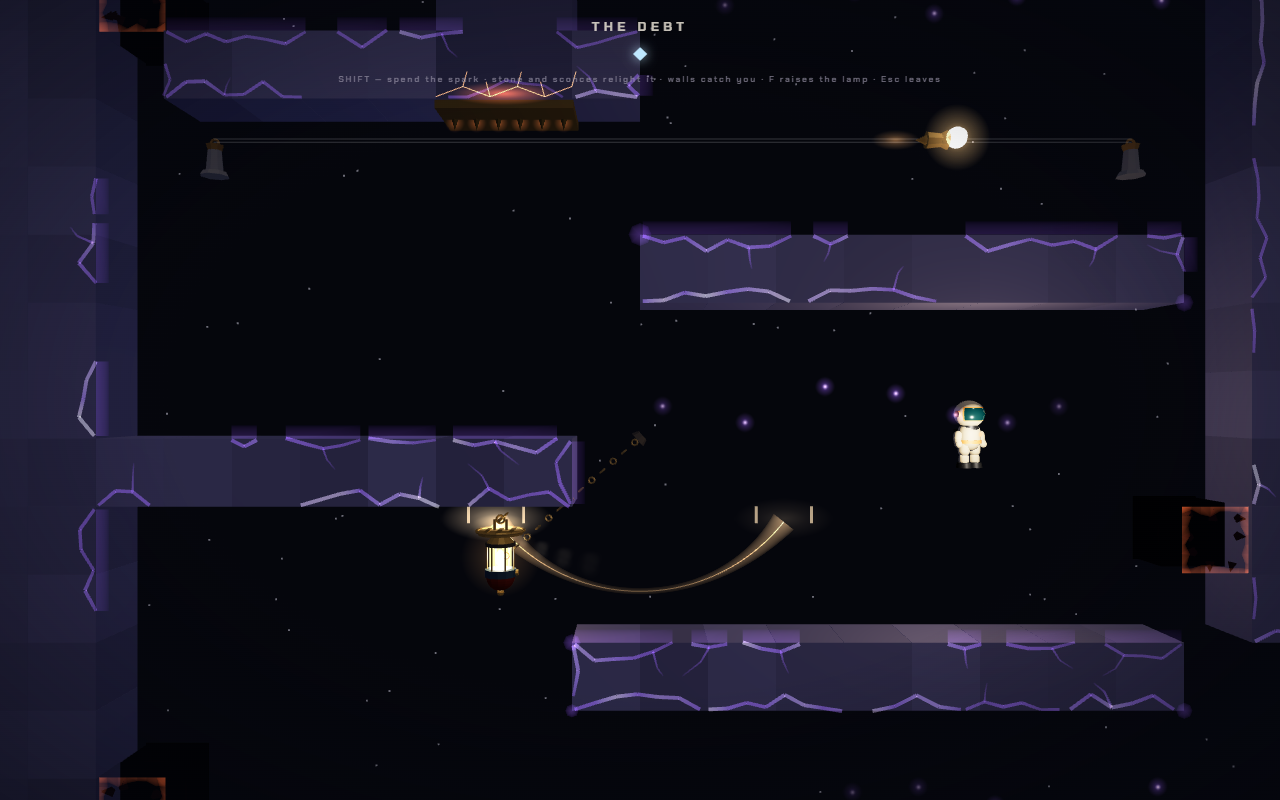
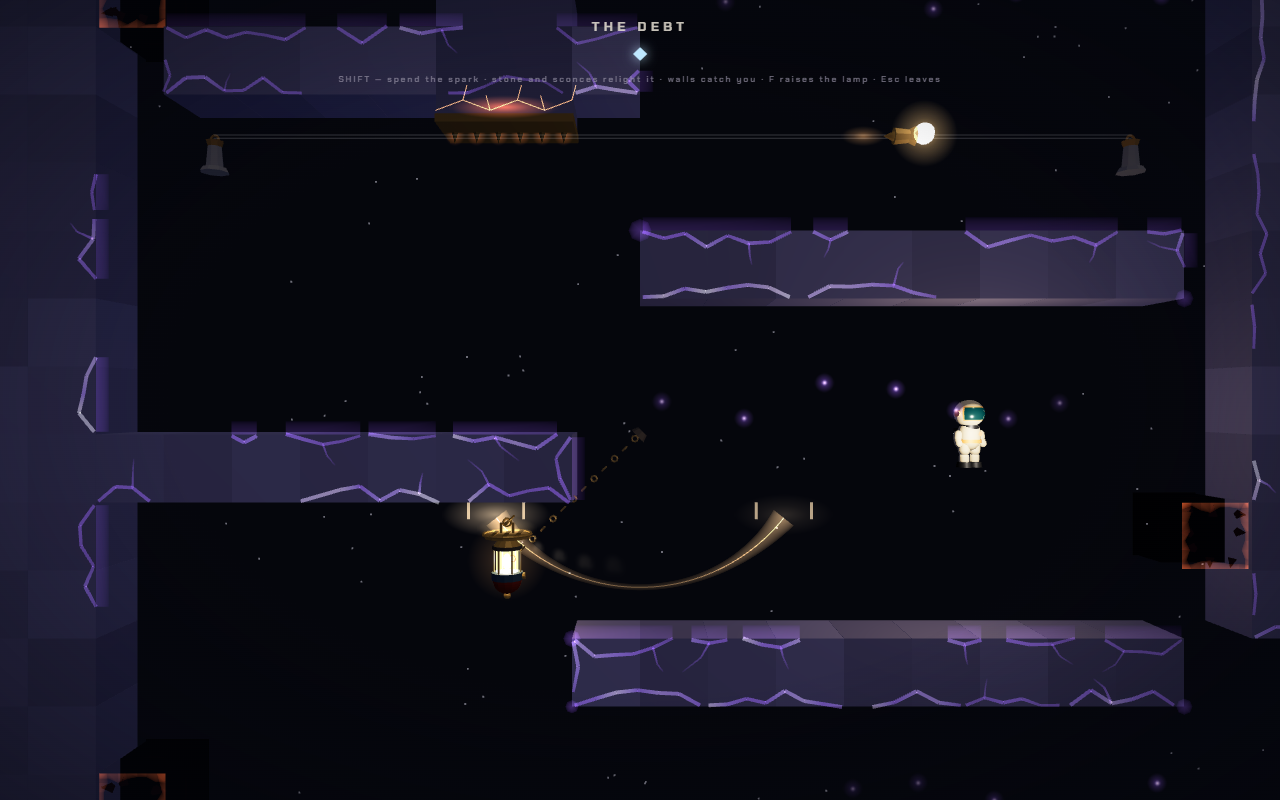
The light is the hazard, not the carriage
Reported: a bolt on a vertical rail hits the body when the light plainly is
not touching it.

The kill box was half a tile and a bit long DOWN THE RAIL -- 1.4 tiles end to
end -- against a bolt that is drawn 0.74 long. On a vertical rail that ran
down the axis the body is tallest in, so the lethal column stood 2.44 tiles
under an orb you read as less than one. It killed from where nothing was, and
none of it was on screen.

- The bolt's glass head is what glows and what a player tracks, so it is what
  bites: a disc at the head's own radius, nearest-point against the body's
  box. The bronze carriage behind it is the vehicle. 2.44 tiles of lethal
  height becomes 1.40.
- The head also rides 0.13 forward of the carriage centre and the carriage
  turns to its rail's bearing, so the hazard follows the light rather than the
  point the shuttle is positioned at.
- A vertical rail is now SEATED: out to the first stone above and the first
  stone below, with a post bolted to each -- the upper one turned over to hang
  from its stone. The bolt travels that whole span. A gate reads as a gate
  when it is anchored to something; endpoints floating mid-shaft read as a
  light with no reason to be there. The author says which column, the room
  says how long. Horizontal rails are strung between posts on purpose and
  snuffers sleep parked at their start, so neither is seated.

Measured in THE FAMINE, bolt pinned at the top of its rail: 0.9, 1.0 and 1.1
[…]

diff --git a/src/game/vault.ts b/src/game/vault.ts
@@ -89,6 +89,10 @@ const SNUFF_SATE = 1.2;     // a moth that has just fed is sated this long — o
                             // frame the floor re-arms you, sting and all
 const RIME_CRUMBLE = 0.55;
 const RIME_REGROW = 3.5;
+/** the bolt's glass head: how far forward of its carriage it rides, and how
+ *  big it is. Both are read off buildBolt so the hazard is the drawn light */
+const BOLT_HEAD = 0.13;
+const BOLT_R = 0.18;
 const BEAM_R = 0.3;
 /**
  * How far a watch-light throws, in tiles.
@@ -253,6 +257,23 @@ export class VaultRun {
   private pulse: number;
   /** which of the three ages this room's masonry and fittings belong to (§VI) */
   private act: Act;
+  /**
+   * The rail each shuttle actually runs on, in tiles.
+   *
+   * A VERTICAL bolt is a gate, and a gate is only readable if it is anchored:
+   * something on the floor, something on the ceiling, and the light shuttling
+   * between them. Authored endpoints float in the middle of a shaft and read
+   * as a light with no reason to be there — so a vertical rail is SEATED, out
+   * to the first stone above and the first stone below, and the bolt travels
+   * that whole span. The author says which column and roughly where; the room
+   * says how long.
+   *
+   * Horizontal rails are strung between two anchor posts the author placed on
+   * purpose, and snuffers sleep parked at their rail's start, so neither is
+   * seated — one is a span, the other is a patrol.
+   */
+  private shuttleSpan: { x0: number; y0: number; x1: number; y1: number }[] = [];
+
   /** per shuttle; only a snuffer's entry is ever awake or ticking */
   private snuffState: { awake: boolean; t: number; sate: number }[] = [];
   /** which censer's crown the body is standing on, -1 for none */
@@ -717,9 +738,23 @@ export class VaultRun {
     // veining glowing violet, self-luminous so the dark can never hide the
     // thief — and never the unlight's ember, because it steals, it does not
     // kill.
-    for (const s2 of this.def.shuttles ?? []) {
-      const ax = s2.x0 + 0.5, ay = -(s2.y0 + 0.5);
-      const bx = s2.x1 + 0.5, by = -(s2.y1 + 0.5);
+    this.shuttleSpan = (this.def.shuttles ?? []).map(s2 => {
+      const vertical = Math.abs(s2.y1 - s2.y0) > Math.abs(s2.x1 - s2.x0);
+      if (!vertical || s2.snuff) return { x0: s2.x0, y0: s2.y0, x1: s2.x1, y1: s2.y1 };
+      const x = s2.x0;
+      let top = Math.min(s2.y0, s2.y1), bot = Math.max(s2.y0, s2.y1);
+      while (top > 1 && !this.solidTile(x, top - 1)) top--;
+      while (bot < this.p.h - 2 && !this.solidTile(x, bot + 1)) bot++;
+      // keep the authored direction, so `phase` still means what it meant
+      return s2.y0 <= s2.y1
+        ? { x0: x, y0: top, x1: x, y1: bot }
+        : { x0: x, y0: bot, x1: x, y1: top };
+    });
+
+    for (const [si, s2] of (this.def.shuttles ?? []).entries()) {
+      const sp = this.shuttleSpan[si];
+      const ax = sp.x0 + 0.5, ay = -(sp.y0 + 0.5);
+      const bx = sp.x1 + 0.5, by = -(sp.y1 + 0.5);
       const bearing = Math.atan2(by - ay, bx - ax);
       const railGeo = new THREE.BufferGeometry().setFromPoints([
         new THREE.Vector3(ax, ay, 0.05), new THREE.Vector3(bx, by, 0.05),
@@ -733,9 +768,19 @@ export class VaultRun {
       const rail2 = new THREE.Line(new THREE.BufferGeometry().setFromPoints([
         new THREE.Vector3(ax + nx, ay + ny, 0.05), new THREE.Vector3(bx + nx, by + ny, 0.05),
       ]), railMat);
-      for (const [px2, py2] of [[ax, ay], [bx, by]] as [number, number][]) {
+      // A post stands on what it is bolted to. On a vertical rail that is the
+      // ceiling at one end and the floor at the other, so the upper one is
+      // turned over to hang from its stone rather than stand on air.
+      const vert = sp.x0 === sp.x1 && sp.y0 !== sp.y1;
+      for (const [px2, py2, upper] of [[ax, ay, 1], [bx, by, 0]] as [number, number, number][]) {
         const post = buildRailPost();
-        post.position.set(px2, py2 - 0.28, 0.02);
+        if (vert) {
+          const hangs = upper ? sp.y0 < sp.y1 : sp.y1 < sp.y0;
+          post.rotation.z = hangs ? Math.PI : 0;
+          post.position.set(px2, py2 + (hangs ? 0.28 : -0.28), 0.02);
+        } else {
+          post.position.set(px2, py2 - 0.28, 0.02);
+        }
         this.scene.add(post);
       }
       this.scene.add(rail, rail2);
@@ -1662,9 +1707,23 @@ export class VaultRun {
         }
         continue;
       }
-      const horizontal = Math.abs(sdef.x1 - sdef.x0) >= Math.abs(sdef.y1 - sdef.y0);
-      const hw = horizontal ? 0.7 : 0.17, hh = horizontal ? 0.17 : 0.7;
-      if (Math.abs(this.px - pos.x) < hw + HW && Math.abs(this.py - pos.y) < hh + HH) { this.reform(); return; }
+      // THE LIGHT IS THE HAZARD, and nothing else on the carriage is.
+      //
+      // This used to be a box half a tile and a bit long down the rail — 1.4
+      // tiles end to end — which is nearly twice the bolt that is drawn, and
+      // on a VERTICAL rail that ran down the axis the body is tallest in: a
+      // 2.44-tile lethal column under an orb you see as less than one. It
+      // killed from where nothing was, repeatedly, and there was no way to
+      // read that off the screen because the thing doing the killing was not
+      // on the screen.
+      //
+      // The bolt's glass head is what glows and what you track, so it is what
+      // bites: a disc at the head's own radius, tested against the body's box
+      // by nearest point. The bronze carriage behind it is the vehicle.
+      const orb = this.boltOrb(i, pos);
+      const cx = Math.max(this.px - HW, Math.min(orb.x, this.px + HW));
+      const cy = Math.max(this.py - HH, Math.min(orb.y, this.py + HH));
+      if (Math.hypot(orb.x - cx, orb.y - cy) < BOLT_R) { this.reform(); return; }
     }
     for (let i = 0; i < (this.def.censers ?? []).length; i++) {
       if (this.ridingCenser === i) continue;             // standing on the crown
@@ -2120,12 +2179,27 @@ export class VaultRun {
     };
   }
 
+  /**
+   * Where the bolt's glass head actually is. buildBolt puts it 0.13 forward of
+   * the carriage centre and the carriage is turned to the rail's bearing, so
+   * the light a player tracks is NOT the point the shuttle is positioned at.
+   * Killing from the carriage centre is off by a sixth of a tile on every
+   * axis, which is exactly the sort of gap that reads as an unfair hit.
+   */
+  private boltOrb(i: number, pos: { x: number; y: number }): { x: number; y: number } {
+    const sp = this.shuttleSpan[i];
+    const bearing = Math.atan2(-(sp.y1 - sp.y0), sp.x1 - sp.x0);
+
+    return { x: pos.x + Math.cos(bearing) * BOLT_HEAD, y: pos.y + Math.sin(bearing) * BOLT_HEAD };
+  }
+
   private shuttlePos(i: number): { x: number; y: number } {
     const s = this.def.shuttles![i];
     // a snuffer sleeps parked at the rail's start; its own clock only runs
     // once it wakes, so the patrol always begins from where it slept
     const st = this.snuffState[i];
     if (s.snuff && !st.awake) return { x: s.x0 + 0.5, y: -(s.y0 + 0.5) };
+
     const t = s.snuff ? st.t : this.time;
     const u = (t / (s.period / this.hazardMul()) + (s.snuff ? 0 : s.phase)) % 1;
     let ping = u < 0.5 ? u * 2 : 2 - u * 2;
@@ -2137,9 +2211,10 @@ export class VaultRun {
       const d = this.snufferDrift(i, t);
       ox = d.x; oy = d.y;
     }
+    const sp = this.shuttleSpan[i];
     return {
-      x: s.x0 + 0.5 + (s.x1 - s.x0) * ping + ox,
-      y: -(s.y0 + 0.5) - (s.y1 - s.y0) * ping + oy,
+      x: sp.x0 + 0.5 + (sp.x1 - sp.x0) * ping + ox,
+      y: -(sp.y0 + 0.5) - (sp.y1 - sp.y0) * ping + oy,
     };
   }
 
